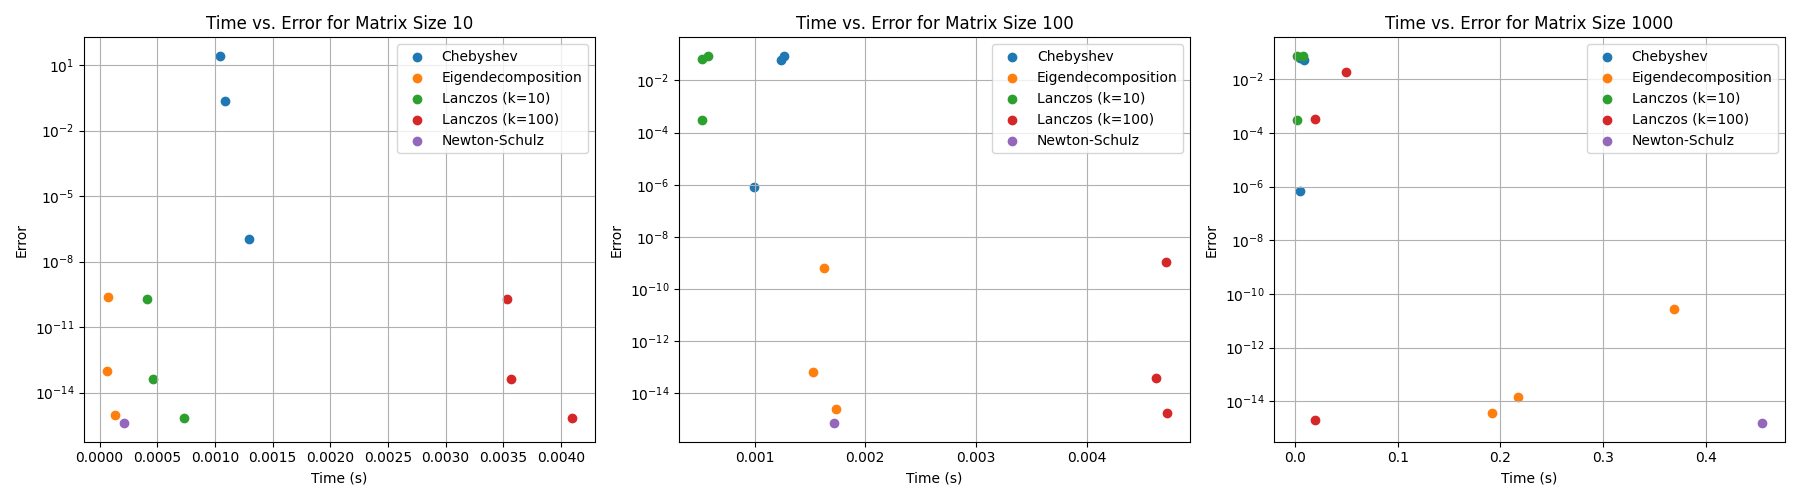
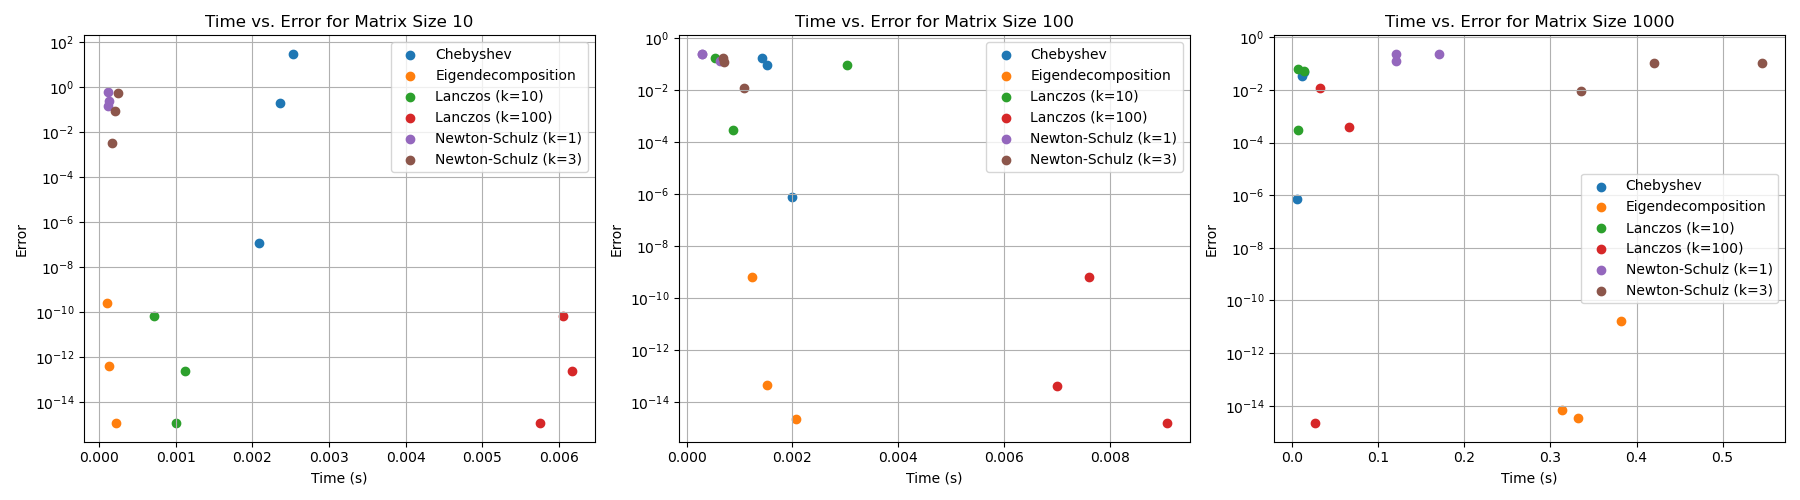
Add files via upload

diff --git a/run.py b/run.py
@@ -10,7 +10,8 @@ def main():
         Solver("Lanczos (k=10)", lambda A, b: lanczos.solve_lanczos(A, b, k=10), warm_start=False),
         Solver("Lanczos (k=100)", lambda A, b: lanczos.solve_lanczos(A, b, k=100), warm_start=False),
         Solver("Chebyshev", lambda A, b: chebyshev.solve_chebyshev(A, b), warm_start=False),
-        Solver("Newton-Schulz", lambda A, b: newton_schulz.solve_ns(A, b), warm_start=False),
+        Solver("Newton-Schulz (k=1)", lambda A, b: newton_schulz.solve_ns(A, b, max_iter=1), warm_start=False),
+        Solver("Newton-Schulz (k=3)", lambda A, b: newton_schulz.solve_ns(A, b, max_iter=3), warm_start=False),
     ]
 
 

diff --git a/sqrtsolvers/benchmarking/benchmark.py b/sqrtsolvers/benchmarking/benchmark.py
@@ -63,6 +63,9 @@ def run_benchmark(solvers: list[Solver], matrix_sizes: list[int], condition_numb
 
             for solver in solvers:
 
+                # do a warm-up
+                solver.func(A, b)
+
                 x0 = None
                 if solver.warm_start:
                     x0 = solver.func(A2, b2, x0=None)
